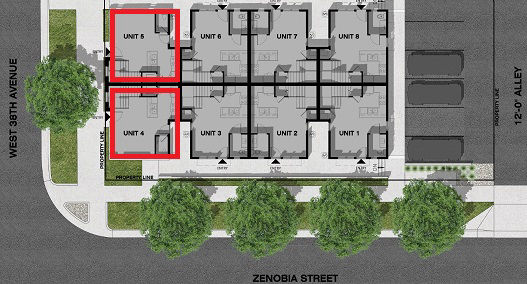
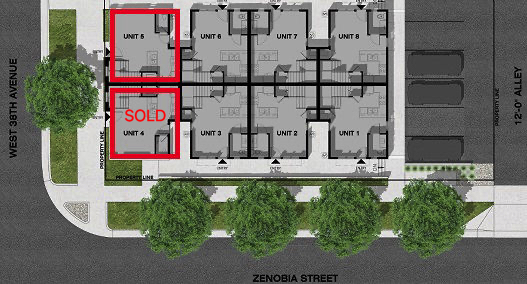
update units 2 and 4 to sold

diff --git a/zen8/units45.html b/zen8/units45.html
@@ -109,7 +109,7 @@
                     <div class="media-content">
                         <div class="mbr-section-text">
                             <p class="mbr-text mb-0 mbr-fonts-style display-7">
-                               <strong>Unit 4</strong><br>Available, includes parking spot #1
+                               <strong>Unit 4</strong><br>UNDER CONTRACT, includes parking spot #1
 			       <br>Great curb appeal on Zenobia Street
 			       <br>Indoor  = 1106
 <br>Roof Deck = 176

diff --git a/zen8/units2367.html b/zen8/units2367.html
@@ -150,7 +150,7 @@
                     <div class="media-content">
                         <div class="mbr-section-text">
                             <p class="mbr-text mb-0 mbr-fonts-style display-7">
-                               <strong>Unit 2</strong><br>Available, street parking
+                               <strong>Unit 2</strong><br>UNDER CONTRACT, street parking
 			       <br>Great curb appeal on Zenobia Street
 <br>Indoor = 1063
 <br>Roof Deck = 176
